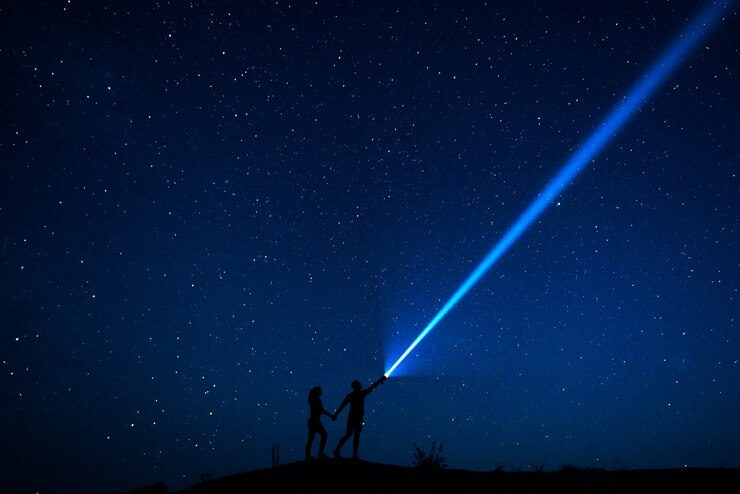
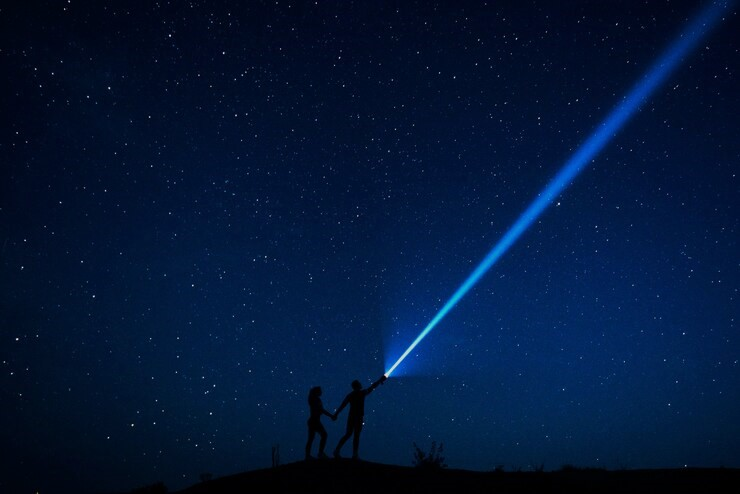
improved website
Generally added some CSS designs to make the website more beautiful

Changed region(s): [[0.4973, 0.1215, 0.9014, 0.7591]]

diff --git a/main.css b/main.css
@@ -13,7 +13,7 @@ nav{
     top:0px;
     left: 0px;
     width: 100%;
-    min-height: 4vh;
+    height: 3vh;
     background-color: black;
     display:flex;
     flex-direction: row;
@@ -46,7 +46,7 @@ nav{
     top: 4vh;
     left: -1vw;
     display: flex;
-    background:url(images/welcome.jpg);
+    background:url(https://img.freepik.com/free-photo/couple-love-walks-stars-silhouette-lovers-couple-who-are-enjoying-their-time-together-night-starry-sky-starry-sky-night-walk-man-woman-traveling-wedding-travel_135372-4.jpg?w=740);
     background-size: 100% 100%;
     background-attachment: fixed;
     box-shadow: 0.5vw 0.5vw 0.5vw black;
@@ -113,24 +113,16 @@ nav{
         box-shadow: -0.5vw 0.5vw 0.5vw black;
         margin-left: 4%;
     }
-        #proheader{
-            text-align:center;
-            font-size: 1.5vw;
-            background-color: blue;
-            opacity: 0.7;
-            display: flex;
-            align-items:flex-start;
-            justify-content: center;
-        }
         /*Grid space for the projects*/
         #tiles{
-            width: 75%;
+            width: 56%;
             padding-top: 5vh;
             padding-bottom: -5vh;
             margin-left:13vw;
             margin-right:13vw;
             overflow-y:scroll;
             overflow-x: hidden;
+            box-shadow: -.3vw -0.3vw 0.3vw black,-0.3vw 0.3vw 0.3vw black;
         }
         ::-webkit-scrollbar {
             width: 1vw;
@@ -140,12 +132,13 @@ nav{
            ::-webkit-scrollbar-track {
             box-shadow: inset 0 0 5px grey; 
             border-radius: 10px;
-            background: black;
+            
+            background: linear-gradient(90deg,rgb(0, 0, 255),rgb(1, 1, 21),rgb(1, 1, 21))
           }
            
           /* Handle */
           ::-webkit-scrollbar-thumb {
-            background: linear-gradient(rgb(8, 8, 217),rgb(7, 7, 20)); 
+            background: linear-gradient(90deg,rgb(255, 0, 0),rgb(195, 1, 1),rgb(21, 1, 1),rgb(21, 1, 1)) ;
             border-radius: 10px;
           }
           
@@ -165,7 +158,6 @@ nav{
             align-items:flex-end;
             justify-content: center;
             font-size: 1.5vw;
-            border-radius: 2vw;
         }
             #keyboard{
                 background: url(images/keyboard.JPG);
@@ -185,7 +177,7 @@ nav{
 #design{
     position: relative;
     width: 100vw;
-    height: 20vh;
+    height: 28vh;
     padding-left: 0.5vw;
     display: flex;
     align-items: flex-end;
@@ -195,7 +187,7 @@ nav{
 }
 .box {
     position: relative;
-    animation-duration: 2s;
+    animation-duration: 4s;
     animation-iteration-count: infinite;
     background:linear-gradient(rgb(243, 6, 6),black) ;
     height: 5vw;
@@ -206,8 +198,8 @@ nav{
 }
 @keyframes bounce-4 {
     0%   { transform: scale(1,1)    translateY(0);}
-    10%  { transform: scale(1.1,.9) translateY(0); }
-    30%  { transform: scale(.9,1.1) translateY(-7vh); }
+    10%  { transform: scale(1.2,.8) translateY(0); }
+    30%  { transform: scale(.8,1.2) translateY(-9vh); }
     50%  { transform: scale(1,1)    translateY(0); }
     100% { transform: scale(1,1)    translateY(0); }
 }
@@ -217,46 +209,46 @@ nav{
 #skills{
     position: relative;
     width: 101vw;
-    min-height: 100vh;
-    background:url(images/skills.jfif);
+    min-height: 65vh;
+    background-color: rgb(103, 102, 102);
     background-size: 100% 100%;
-    background-attachment: fixed;
+    background-attachment:fixed;
     left: -1vw;
     padding-top: 4vw;
     display: flex;
     flex-direction: row;
-    align-items: center;
     justify-content: center;
 }
     #aboutme{
-        position: relative;
-        min-width: 55vw;
-        max-width: 58vw;
-        height: 60vh;
+        position: fixed;
+        top: 30vh;
+        left: 10vw;
+        width: 55vw;
+        height: 40vh;
         background: linear-gradient(rgb(5, 5, 216),rgb(3, 3, 126),rgb(2, 2, 58),rgb(7, 7, 20));
-        display: flex;
-        align-items: center;
-        justify-content: center;
         text-align: center;
-        border-radius: 5vw;
         margin-right: 3vw;
         opacity: 0.9;
+        overflow-y: scroll;
+        padding: 1vw;
+        border-radius: 00.5vw;
     }
         #aboutme p{
             font-family:calibri;
             font-weight: 500;
-            font-size: 1.5vw;
+            font-size: 16px;
             color:white;
         }
 
 
     #resume{
-       position: relative;
-       width: 30vw;
-       height: 60vh;
+       position: fixed;
+       top: 30vh;
+       right : 10vw;
+       width: 20vw;
+       height: 44vh;
        background: url(images/resume.JPG);
        background-size: 100% 100%;
-       border-radius: 4vw;
        display: flex;
        align-items: flex-end;
        text-align: center;
@@ -266,3 +258,15 @@ nav{
        font-size: 2vw;
        opacity: 0.7;
     }
+
+#contact{
+    position: relative;
+    width: 100%;
+    left:0;
+    height: 100vh;
+    background: url(images/space\ lab.jpg);
+    background-size: 100% 100%;
+    background-attachment: fixed;
+    box-shadow: -0.5vw -0.7vw 1vw black;
+    z-index: 6;
+}

diff --git a/index.html b/index.html
@@ -15,17 +15,17 @@
         <!--The Welcome Section-->
         <div id="Welcome">
             <div id="info">
-                <h1 style="background-color: rgb(247, 10, 81);margin-bottom: -3.3vh;font-size: 3vw;"><strong>James Koduah</strong></h1>
+                <h1 style="background-color: rgb(247, 10, 81);margin-bottom: -3.3vh;font-size: 3vw;
+                transform: skewX(14deg);"><strong>James Koduah</strong></h1><br>
                 <h1 id="webdev" ><i>Web Developer</i></h1>
             </div>
             <div id="projects">
                 <div id="proheader">
-                    <h2>Projects</h2>
                 </div>
                 <div id="tiles">
                     <a href="https://codepen.io/Jameskkd/full/poayWGP" target="_blank"><div id="keyboard" class="protiles"></div></a>
                     <a href="https://codepen.io/Jameskkd/full/BaYogmJ" target="_blank"><div id="quotes" class="protiles"></div></a>
-                    <div id="rockpaperscissors" class="protiles"></div></a>
+                    <a href="https://james-koduah.github.io/Rock-Paper-Scissors" target="_blank"><div id="rockpaperscissors" class="protiles"></div></a>
                     <div class="protiles"></div>
                     <div class="protiles"></div>
                     <div class="protiles"></div>
@@ -41,7 +41,7 @@
 
 
         <!--The animation boxes section-->
-        <div id="design">
+        <!--div id="design">
             <div class="box"></div>
             <div class="box"></div>
             <div class="box"></div>
@@ -67,7 +67,7 @@
             <div class="box"></div>
             <div class="box"></div>
             <div class="box"></div>
-        </div>
+        </div-->
         
 
         <!--The Skills section-->
@@ -75,17 +75,18 @@
             <div id="aboutme">
                 <p>I am from the West African country of Ghana where the food is good and the people are nice.
                     I have been looking at the tech space for a while and decided to get my feet wet. I am mostly self-taught and have utilized
-                     learning materials from various sources and a very notable one (which is also my favorite ) is FreeCodeCamp online front
-                      and backend training in web development.Currently I am well versed in the use of HTML, CSS and JavaScript. I have work
-                       experience in the retail business from my family owned business. I have worked in our gaming center which is where people
-                        pay to play games on console and also our grocery store.
-                         Inherently I have more than enough experience in communicating and dealing with people with most of them being pleasant
-                          individuals. Still young I am looking forward to learning a lot more things and hopefully contribute my quota to 
-                          society :).  
+                    learning materials from various sources and a very notable one (which is also my favorite ) is FreeCodeCamp online front
+                    and backend training in web development.Currently I am well versed in the use of HTML, CSS and JavaScript. I have work
+                    experience in the retail business from my family owned business. I have worked in our gaming center which is where people
+                    pay to play games on console and also our grocery store.
+                    Inherently I have more than enough experience in communicating and dealing with people with most of them being pleasant
+                    individuals. Still young I am looking forward to learning a lot more things and hopefully contribute my quota to 
+                    society :) 
                 </p>
             </div>
             <a href="images/resume.pdf" target="_blank"><div id="resume"><h3 style="background-color:rgb(10, 10, 129)">My Resume</h3></div></a>
         </div>
+        <div id="contact"></div>
 
     </body>
 </html>
